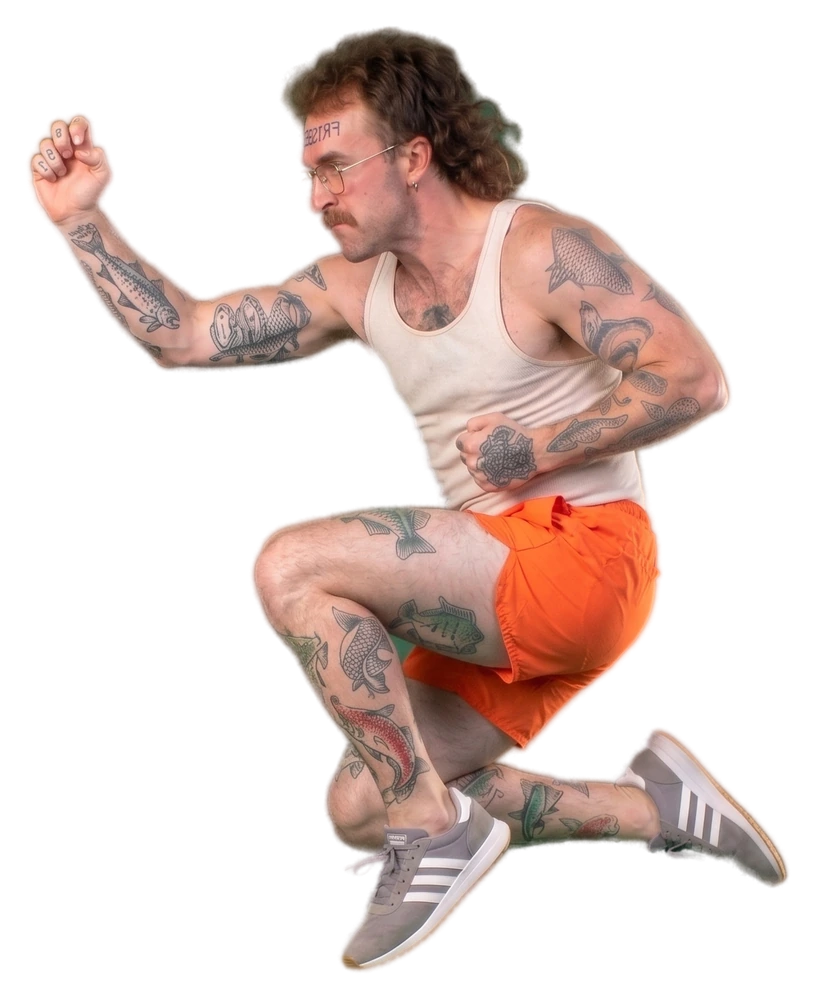
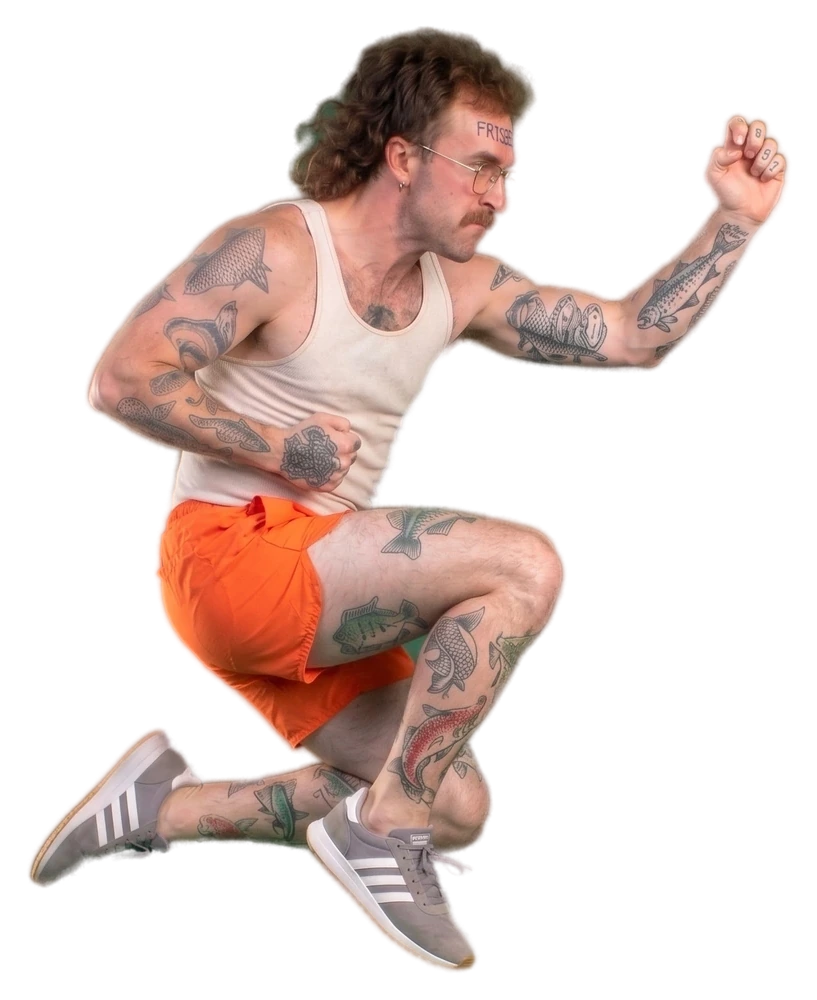
Phone-feedback fixes: FRISBEE facing, VS assets, select screen redesign
- FACING FIX (the critical one): 6 FRISBEE sprites (f_f idle, f_low,
  f_claw, f_jump, f_knee, f_plantj) were flipped LEFT during processing
  - he fought with his back to the opponent. Ground-truthed against
  b_punch at full size + the forehead-tattoo mirror test; all 6
  un-flipped to roster canon (faces right). Pipeline script updated so
  a re-run stays correct.
- VS SCREEN: created the missing f_vs.webp (claw pose, faces inward)
  and f_vsx.webp (mirrored plant thrust) - FRISBEE's VS screen was a
  broken image; VSC_P/VSC_C scale entries added.
- SELECT SCREEN REDESIGN: 6 cards now a 3x2 wrap grid (was a nowrap
  strip ~117vw that cut off on phones) with bigger cards (105px vs 73);
  FIGHT + tournament share one row; player card moved below the
  buttons; smaller logo; hero zoom bumped (1.22-1.24) - the fighter
  now dominates ~47vh of the screen (was 39vh); selected card glows in
  its theme color.
- SOUND AUDIT: all 6 battle themes verified loading+wired (showCV,
  battle start, win); after-select videos are muted by design - no
  clash. The FRISBEE song itself was already corrected earlier.

Verified: 23+6 layout/feature checks, 30 matchups cine-correct,
0 console errors.

diff --git a/index.html b/index.html
@@ -118,7 +118,8 @@ html,body{width:100%;height:100%;background:#000;overflow:hidden;font-family:'Ra
 .game-logo{display:block;margin:0 auto;width:clamp(180px,54vw,310px);height:auto;
   filter:drop-shadow(0 4px 10px rgba(0,0,0,.7)) drop-shadow(0 0 22px rgba(150,185,215,.28));
   animation:logoIn .7s cubic-bezier(.2,.85,.3,1.2) both;}
-#SS .game-logo{width:clamp(118px,33vw,190px);}
+#SS .game-logo{width:clamp(80px,20vw,120px);}
+#SS .sls{font-size:clamp(11px,3.4vw,22px);}
 @keyframes logoIn{0%{transform:scale(.7);opacity:0}100%{transform:scale(1);opacity:1}}
 .sll{font-family:'Heebo','Arial Black',system-ui,sans-serif;font-weight:900;font-size:clamp(32px,11vw,66px);letter-spacing:clamp(0px,.4vw,3px);line-height:.92;
   background:linear-gradient(180deg,#ffffff 0%,#e3e9f1 36%,#97a3b4 51%,#f4f7fb 64%,#aab5c4 100%);
@@ -150,9 +151,10 @@ html,body{width:100%;height:100%;background:#000;overflow:hidden;font-family:'Ra
 .segf{height:100%;width:0;background:linear-gradient(90deg,#c01010,#ff5a00 55%,#ffd000);box-shadow:0 0 9px rgba(255,120,0,.55);transition:width .45s cubic-bezier(.2,.8,.3,1);}
 .segbar::after{content:'';position:absolute;inset:0;background:repeating-linear-gradient(90deg,transparent 0,transparent 11px,rgba(6,8,10,.95) 11px,rgba(6,8,10,.95) 13px);pointer-events:none;}
 /* CARD STRIP — vertical roster cards, theme-tinted, selected elevated */
-.sc{position:relative;z-index:3;display:flex;flex-wrap:nowrap;gap:clamp(4px,1.4vw,9px);justify-content:center;align-items:flex-end;width:100%;flex:0 0 auto;overflow-x:auto;overflow-y:visible;-webkit-overflow-scrolling:touch;padding:clamp(8px,2.4vw,14px) clamp(5px,2vw,12px) clamp(4px,1.2vw,8px);}
+/* 6-fighter roster: 3×2 wrap grid — ALL cards always visible, bigger tap targets (no more h-scroll cut) */
+.sc{position:relative;z-index:3;display:flex;flex-wrap:wrap;gap:clamp(5px,1.6vw,10px);justify-content:center;align-items:flex-end;width:100%;flex:0 0 auto;overflow:visible;padding:clamp(6px,1.8vw,12px) clamp(5px,2vw,12px) clamp(4px,1.2vw,8px);}
 .c0{--cc:#2f86ff}.c1{--cc:#c9ced6}.c2{--cc:#ffc41f}.c3{--cc:#28e07a}.c4{--cc:#d94de0}.c5{--cc:#ff7a1a}
-.cc{flex:0 0 clamp(66px,19.5vw,112px);cursor:pointer;position:relative;border-radius:8px;overflow:hidden;background:linear-gradient(180deg,#14171d,#0a0c10);
+.cc{flex:0 0 clamp(96px,28vw,150px);cursor:pointer;position:relative;border-radius:8px;overflow:hidden;background:linear-gradient(180deg,#14171d,#0a0c10);
   border:1.5px solid rgba(255,255,255,.1);border-top:3px solid var(--cc);box-shadow:0 4px 12px rgba(0,0,0,.55);
   transition:transform .2s cubic-bezier(.2,.8,.3,1.3),box-shadow .2s,border-color .2s;}
 .cc:active{transform:scale(.96);}
@@ -160,7 +162,7 @@ html,body{width:100%;height:100%;background:#000;overflow:hidden;font-family:'Ra
 .cin{padding:clamp(3px,1vw,6px) 2px;text-align:center;background:linear-gradient(180deg,rgba(30,35,44,.96),rgba(15,18,24,.96));}
 .cnm{font-family:'Heebo','Bebas Neue',system-ui,sans-serif;font-weight:800;font-size:clamp(9px,2.7vw,14px);letter-spacing:.4px;color:var(--cc);filter:brightness(1.12) saturate(.85);white-space:nowrap;overflow:hidden;text-overflow:ellipsis;text-shadow:0 1px 2px #000;transition:filter .15s;}
 .cc.on .cnm{filter:brightness(1.35) saturate(1.1);}
-.cim{width:100%;aspect-ratio:1/1;overflow:hidden;position:relative;background:#0a0d12;}
+.cim{width:100%;aspect-ratio:1/0.78;overflow:hidden;position:relative;background:#0a0d12;}
 .cim img{width:100%;height:100%;object-fit:cover;object-position:center 10%;display:block;transition:transform .3s,filter .2s;filter:saturate(.82) contrast(1.05) brightness(.8);}
 .cc.on .cim img{transform:scale(1.05);filter:saturate(1.18) contrast(1.1) brightness(1.02);}
 .cig{position:absolute;inset:0;background:linear-gradient(180deg,transparent 52%,rgba(8,10,14,.9));z-index:2;}
@@ -1170,10 +1172,16 @@ html,body{width:100%;height:100%;background:#000;overflow:hidden;font-family:'Ra
 .wbtns{display:flex;gap:clamp(8px,2.4vw,12px);justify-content:center;}
 .kbh{display:none;margin-top:3px;font-family:'Heebo',system-ui,sans-serif;font-weight:700;font-size:10px;letter-spacing:.3px;color:#8f9bb0;text-shadow:0 1px 2px #000;white-space:nowrap;}
 @media (pointer:fine) and (min-width:900px){.kbh{display:block;}}
+/* FIGHT + tournament share ONE row — frees vertical space for the giant hero stage */
+.btnrow{position:relative;z-index:3;display:flex;gap:clamp(7px,2vw,12px);justify-content:center;align-items:stretch;width:min(92vw,420px);margin:clamp(4px,1.2vw,8px) auto 0;}
+.btnrow .bfi{flex:1.7;margin:0;}
+.btnrow .btour{flex:1;margin:0;display:flex;align-items:center;justify-content:center;}
+/* selected card glows in the fighter's theme color */
+.cc.on{box-shadow:0 0 0 2px var(--cc,#f5c518),0 0 18px var(--cc,#f5c518);}
 /* ── TYPE SCALE (סריף): one clamp ladder for every new-system text element ── */
 :root{--t1:clamp(30px,9vw,46px);--t2:clamp(20px,6vw,32px);--t3:clamp(13px,3.7vw,17px);--t4:clamp(11px,3.2vw,15px);--t5:clamp(10px,2.9vw,13px);--t6:clamp(9px,2.5vw,11px);}
 /* ── PLAYER CARD (פיקסל): stats + rank + daily challenge in one framed panel ── */
-.pcard{position:relative;z-index:3;width:min(88vw,360px);margin:clamp(4px,1.2vw,8px) auto 0;padding:clamp(7px,2vw,10px) clamp(10px,3vw,14px);background:linear-gradient(180deg,rgba(12,9,4,.74),rgba(4,3,2,.8));border:1px solid rgba(245,197,24,.28);border-radius:6px;box-shadow:0 4px 14px rgba(0,0,0,.5);}
+.pcard{position:relative;z-index:3;width:min(90vw,380px);margin:clamp(3px,.8vw,6px) auto 0;padding:clamp(4px,1.2vw,7px) clamp(9px,2.6vw,13px);background:linear-gradient(180deg,rgba(12,9,4,.74),rgba(4,3,2,.8));border:1px solid rgba(245,197,24,.28);border-radius:6px;box-shadow:0 4px 14px rgba(0,0,0,.5);font-size:var(--t6);}
 .pcard::before{content:"";position:absolute;top:0;left:8%;right:8%;height:2px;background:linear-gradient(90deg,transparent,var(--g),transparent);}
 .pcard .pstats{margin:0;}
 .pcard .prank{width:auto;margin:3px 0 0;}
@@ -1235,11 +1243,6 @@ html,body{width:100%;height:100%;background:#000;overflow:hidden;font-family:'Ra
     <div class="sls">SELECT CHARACTER</div>
   </div>
   <div class="pgr" id="PNAME_GREET"></div>
-  <div class="pcard">
-    <div class="pstats" id="PSTATS"></div>
-    <div class="prank" id="PRANK"></div>
-    <div class="dch" id="DCH"></div>
-  </div>
   <div class="hero" id="HERO">
     <div class="hero-glow" id="HGLOW"></div>
     <img class="hero-img" id="HIMG" src="" alt=""/>
@@ -1288,8 +1291,15 @@ html,body{width:100%;height:100%;background:#000;overflow:hidden;font-family:'Ra
     <div class="svsep">VS</div>
     <div class="svc"><div class="svp"><img id="SVI2" src="" alt=""/></div><div class="svn" id="SVN2">CPU</div></div>
   </div>
-  <button class="bfi" id="BFI" onclick="goFight()">⚡ FIGHT ⚡</button>
-  <button class="btour" id="BTOUR" onclick="startTour()">🏆 אליפות TLV — נצח את כולם</button>
+  <div class="btnrow">
+    <button class="bfi" id="BFI" onclick="goFight()">⚡ FIGHT ⚡</button>
+    <button class="btour" id="BTOUR" onclick="startTour()">🏆 אליפות</button>
+  </div>
+  <div class="pcard">
+    <div class="pstats" id="PSTATS"></div>
+    <div class="prank" id="PRANK"></div>
+    <div class="dch" id="DCH"></div>
+  </div>
   <div class="scf">
     <div class="scf-p" onclick="showTutorial()"><b>?</b><span>איך משחקים</span></div>
     <div class="scf-p" onclick="openLeaderboard()"><b>🏆</b><span>טבלת אלופים</span></div>
@@ -1635,7 +1645,7 @@ const LVL_M=['נמוך','בינוני','גבוה','גבוה מאוד'];     // m
 const LVL_F=['נמוכה','בינונית','גבוהה','גבוהה מאוד']; // feminine (הגנה/מהירות)
 function lvl(v){return v>=86?3:v>=70?2:v>=55?1:0;}
 // render the selected fighter big in the hero stage
-const HSC={b:1.06,r:1.08,i:1.08,y:1.08,s:1.08,f:1.06};  // per-fighter hero zoom
+const HSC={b:1.22,r:1.24,i:1.24,y:1.24,s:1.24,f:1.22};  // per-fighter hero zoom — the fighter DOMINATES the screen (.hero overflow:visible, scales past the box)
 const HHERO={b:'assets/img/b_hero.webp',s:'assets/img/s_hero.webp',f:'assets/img/f_hero.webp'};  // dedicated select-screen renders (full-body, fills the stage)
 // ── FIGHTER TRAITS: one passive identity per fighter, single isolated hook each ──
 // (defined BEFORE heroView — it runs at load for the default hero display)
@@ -2237,8 +2247,8 @@ function freeF(isP1){if(isP1){busy1=false;if(pendRegen1>0){regenE(1,pendRegen1);
 
 // ── VS-SCREEN PER-FIGHTER SCALE ── compresses the height spread so both fighters square off at similar size.
 // Two tables: PLAYER (left) and CPU (right) use different poses → different aspect ratios. Cap ~1.16 limits side-clip.
-const VSC_P={b:1.07,r:0.90,i:0.82,y:1.16,s:1.40};  // player poses: b_hook · r_vs · i_vs · y_flex · s_vs(=s_cape, dynamic fist-up; wide→bumped)
-const VSC_C={b:1.16,r:1.30,i:1.16,y:1.16,s:1.38};  // cpu poses:    b_vs  · r_punch · i_knee · y_punch · s_vsx(=standing WOOO, legs restored; wide→bumped)
+const VSC_P={b:1.07,r:0.90,i:0.82,y:1.16,s:1.40,f:1.06};  // player poses: b_hook · r_vs · i_vs · y_flex · s_vs(=s_cape) · f_vs(=f_claw)
+const VSC_C={b:1.16,r:1.30,i:1.16,y:1.16,s:1.38,f:1.10};  // cpu poses:    b_vs  · r_punch · i_knee · y_punch · s_vsx · f_vsx(=mirrored plant thrust)
 
 // ── DIFFICULTY LADDER ── auto-escalates after each player win; resets to baseline on a loss OR on page reload (re-entry).
 let diffLvl=0;            // 0 = baseline (first match). +1 per consecutive player win, back to 0 on a loss.
